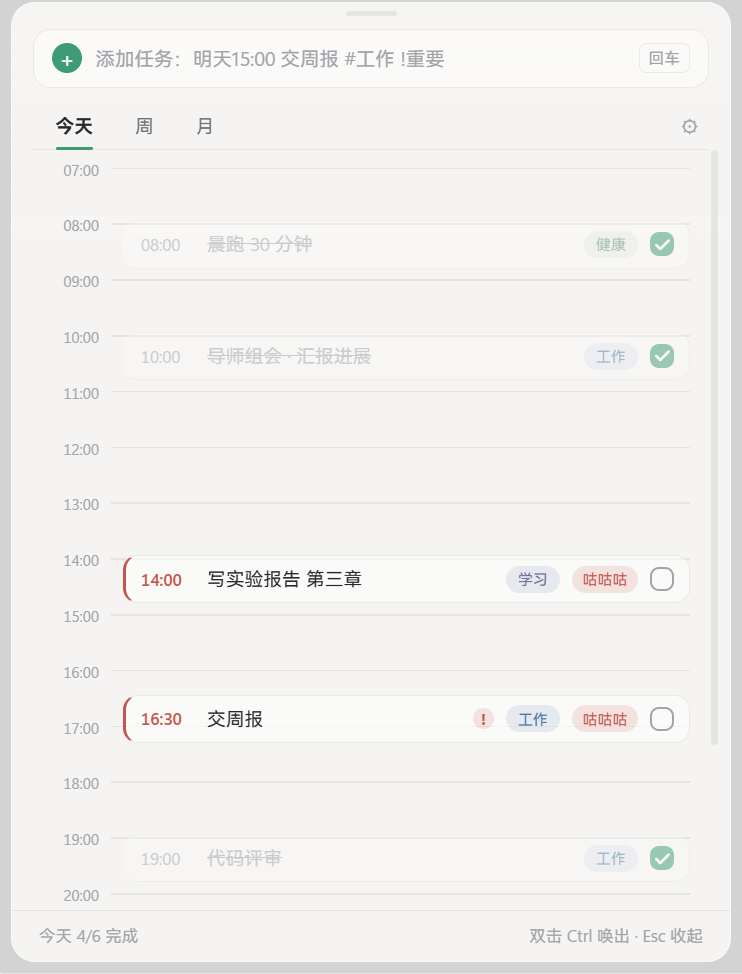
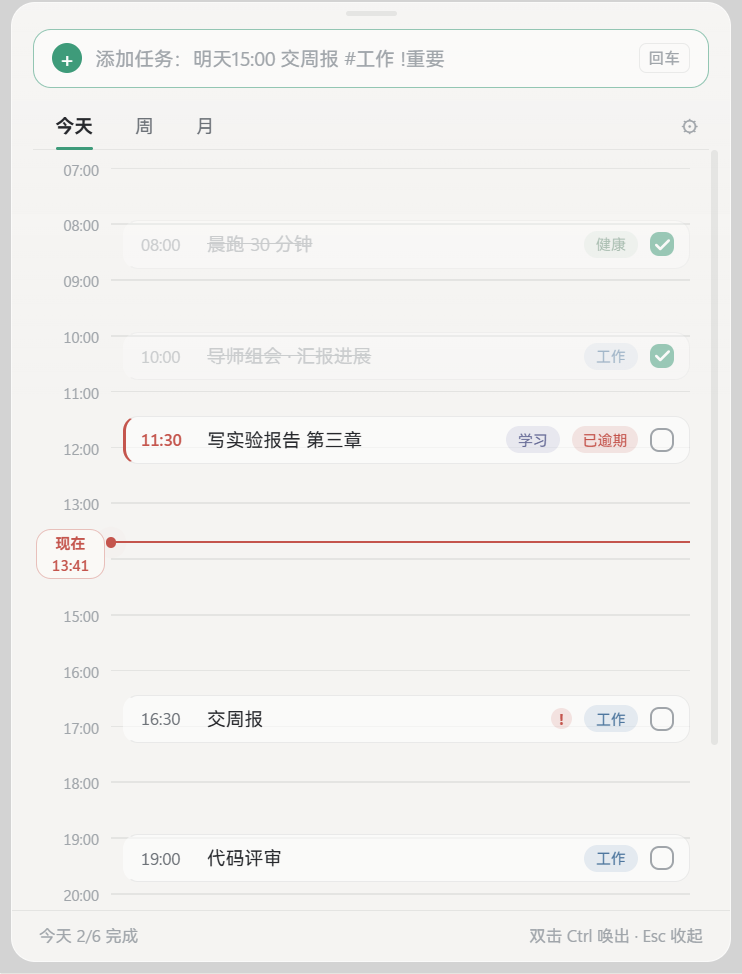
docs: 截图更新为新文案，并修正调试档位
- 重新抓取 widget.png / panel-today.png：逾期标记已是「已逾期」，
  与应用实际界面一致（README 里的截图不该出现已不存在的文案）
- 演示数据顺延一天并调成有代表性的状态（2 已完成 + 1 逾期 + 3 待办），
  免得截图看起来要么全空要么全逾期
- 顺带修：widgetLayer = "none"（排查用档位）在退出操作模式时没被尊重，
  set_operate_mode(false) 会无条件把它挂回桌面层，导致该档位名不副实

diff --git a/src-tauri/src/lib.rs b/src-tauri/src/lib.rs
@@ -85,7 +85,8 @@ fn set_operate_mode(app: &AppHandle, on: bool) {
 
     if on {
         win::detach_and_raise(hwnd);
-    } else {
+    } else if settings.get("widgetLayer").and_then(|v| v.as_str()) != Some("none") {
+        // "none" 是排查用的档位（完全不挂桌面层），退出操作模式时也要尊重它
         win::set_widget_layer(hwnd, widget_layer_is_float(&settings));
     }
     win::apply_widget_styles(hwnd, click_through, on);
